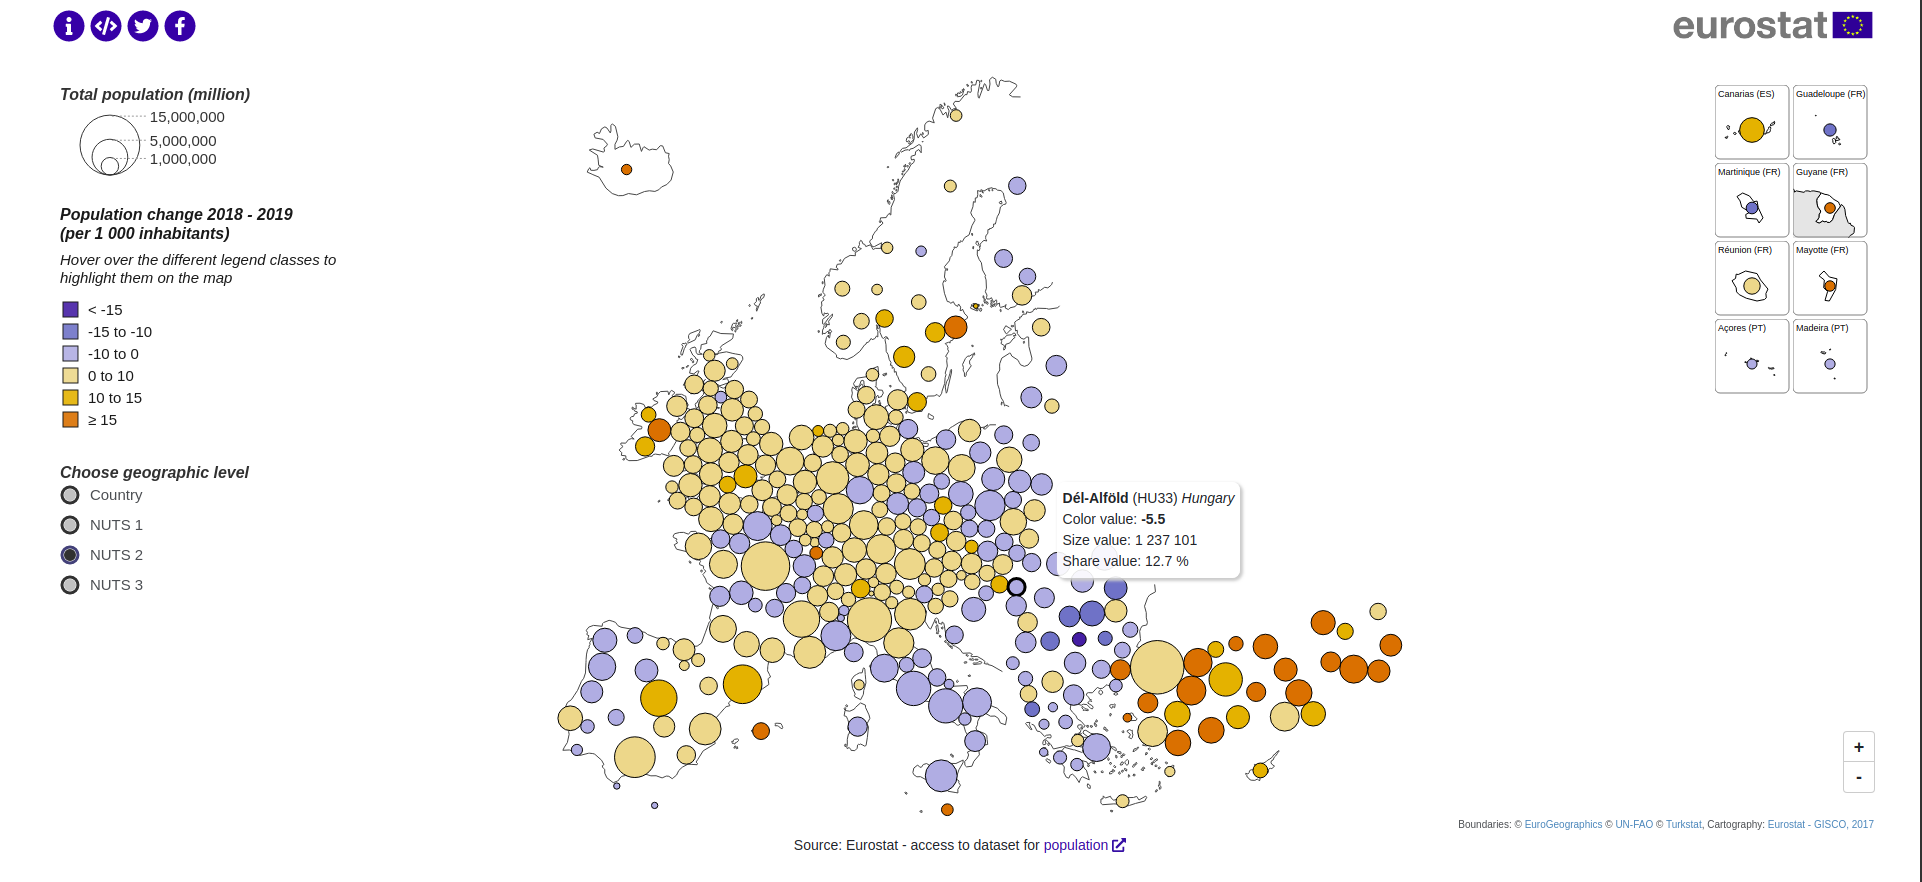
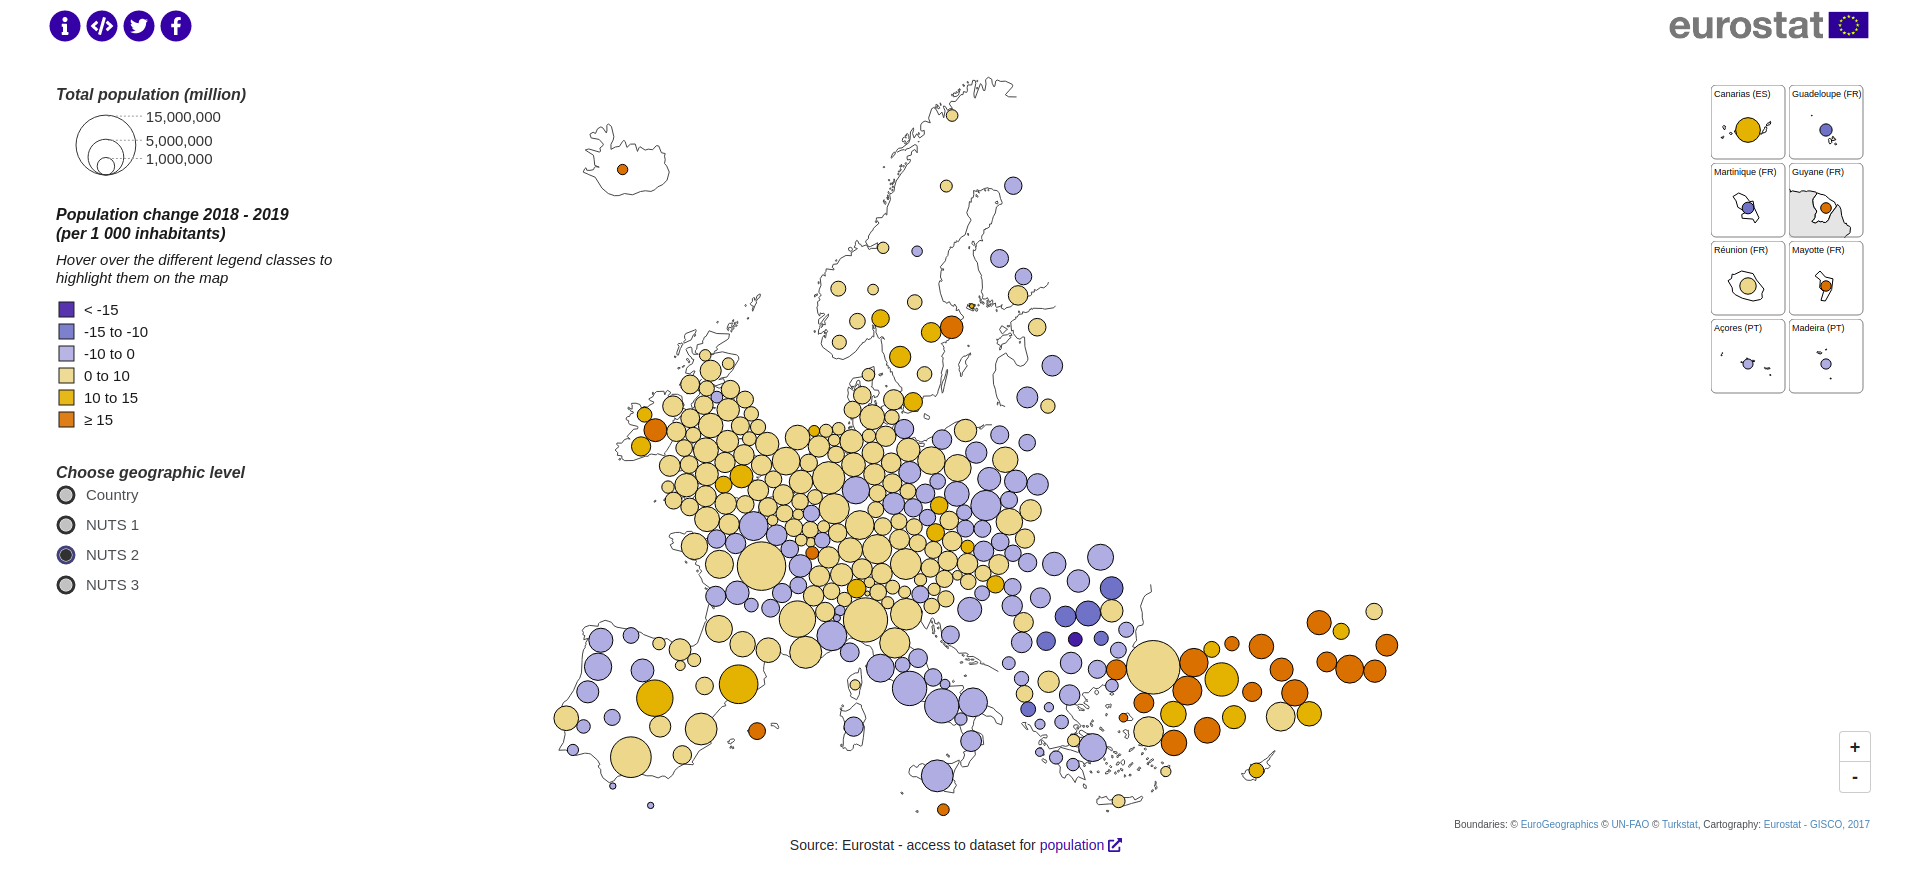
fix true dorling example

diff --git a/examples/dorling/index.html b/examples/dorling/index.html
@@ -43,6 +43,12 @@
             })
             .legendWidth(500)
             .nutsSelectorTranslateY({ 0: 405, 1: 375, 2: 375, 3: 375 })
+            .tooltip({
+                colorLabel: "Population change",
+                colorUnit: "per 1 000 inhabitants",
+                sizeLabel: "Total population",
+                shareLabel: "Share of national population",
+            })
             .showBorders(false)
             .seaColor("white")
             .translateX(-490)// projection.translate()
